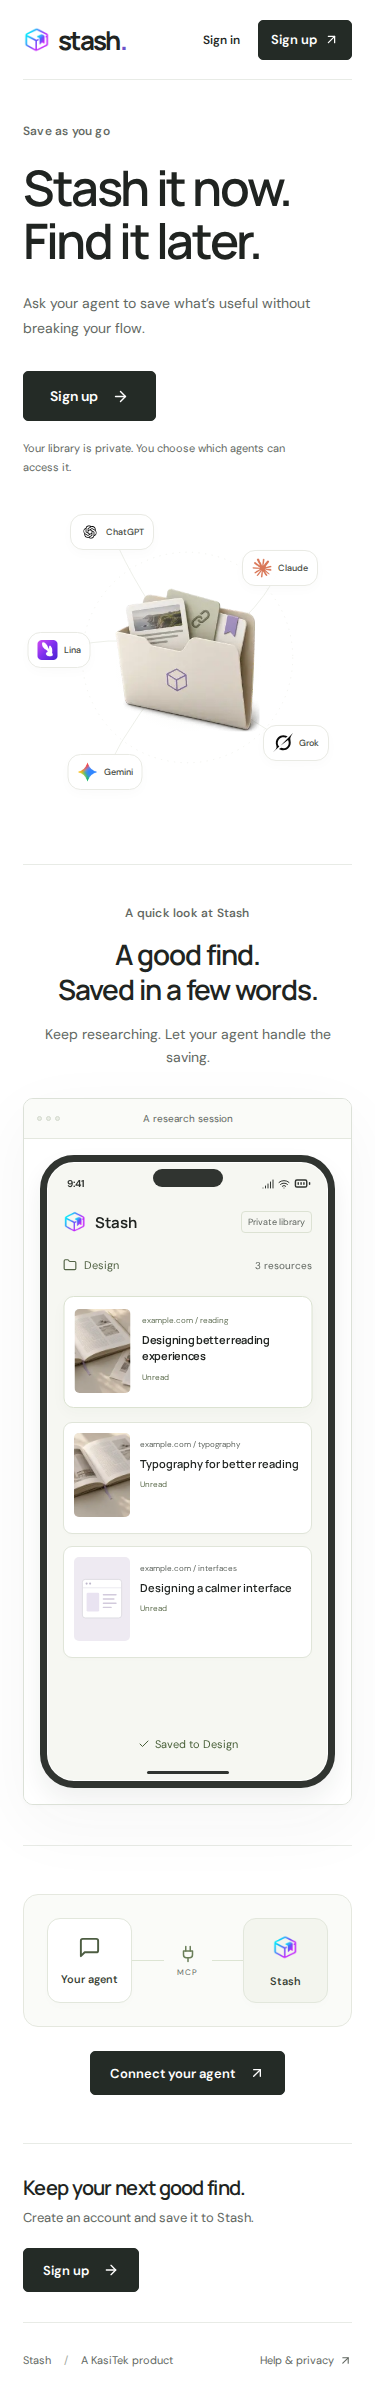
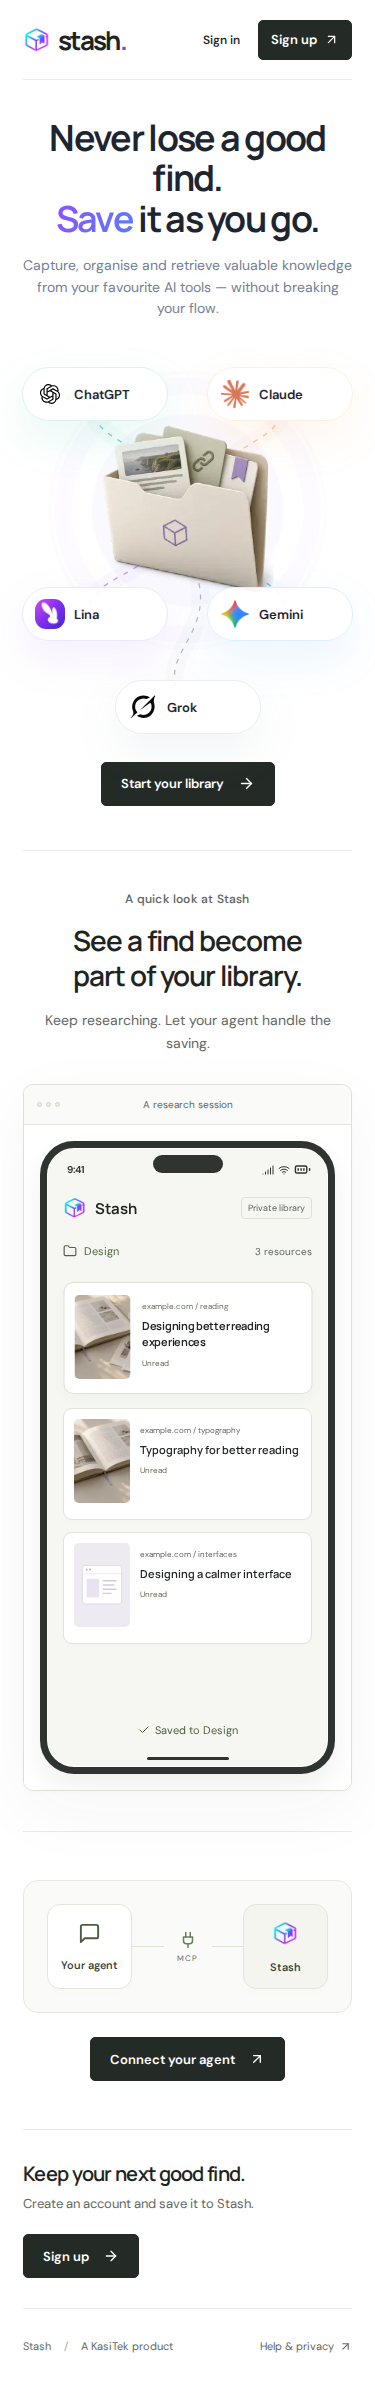
Redesign landing hero with animated assistant streams

diff --git a/apps/web/app/globals.css b/apps/web/app/globals.css
@@ -1879,71 +1879,6 @@ textarea::placeholder {
  .demo-saved-note { bottom: 27px; }
 }
 
-/* Useful things arrive from the conversation, one at a time. */
-.hero-stream { aspect-ratio: 1; max-width: 540px; position: relative; isolation: isolate; }
-.hero-stream-scene { position: absolute; inset: 0; }
-.hero-stream-paths { position: absolute; inset: 0; width: 100%; height: 100%; }
-.hero-agent { position: absolute; transform: translate(-50%, -50%); display: flex; gap: 7px; align-items: center; padding: 9px 12px 9px 9px; border: 1px solid #e9eae4; border-radius: 12px; background: #ffffffed; box-shadow: 0 4px 12px #26302805; color: #454a42; white-space: nowrap; font-size: 11px; font-weight: 500; z-index: 4; }
-.hero-agent-symbol { width: 24px; height: 24px; display: grid; place-items: center; border-radius: 7px; background: #f3f4ef; color: #536149; font-size: 18px; line-height: 1; }
-.hero-stream-item { position: absolute; left: var(--source-x); top: var(--source-y); display: flex; align-items: center; gap: 7px; padding: 9px 11px; border: 1px solid #dce2d4; border-radius: 8px; background: #fcfdf9; color: #627354; font-size: 9px; white-space: nowrap; box-shadow: 0 5px 14px #26302808; z-index: 2; opacity: 0; animation: hero-stash-arrival 16.8s infinite cubic-bezier(.42,0,.2,1); }
-.hero-folder-glow { position: absolute; left: 50%; top: 54%; width: 45%; height: 38%; transform: translate(-50%, -50%); background: radial-gradient(ellipse, #eef0e8b3, transparent 70%); z-index: 1; }
-.hero-center-folder { position: absolute; width: 54%; left: 50%; top: 52%; transform: translate(-50%, -50%); z-index: 3; animation: hero-folder-receive 2.8s infinite ease-in-out; }
-.hero-art .hero-center-folder img { width: 100%; max-width: none; height: auto; }
-@keyframes hero-folder-receive {
-  0%, 68%, 100% { transform: translate(-50%, -50%); }
-  78% { transform: translate(-50%, -51%) rotate(-.6deg); }
-  90% { transform: translate(-50%, -50%) rotate(.3deg); }
-}
-@media (max-width: 560px) {
- .hero-stream { max-width: 340px; }
- .hero-agent { font-size: 9px; padding: 6px 8px 6px 6px; gap: 5px; border-radius: 10px; }
- .hero-agent-symbol { width: 21px; height: 21px; }
- .hero-stream-item { font-size: 8px; padding: 7px 8px; }
-}
-@media (prefers-reduced-motion: reduce) {
- .hero-center-folder { animation: none; }
- .hero-stream-item { display: none; }
-}
-.hero-stream { overflow: clip; }
-.hero-stream-item { width: max-content; transform: translate(-50%, -50%) scale(.82); }
-.hero-art .hero-stream-item svg { width: 12px; height: 12px; flex: 0 0 12px; }
-.hero-art .hero-agent-symbol svg { width: 17px; height: 17px; }
-.hero-agent { z-index: 6; }
-.hero-stream-item { z-index: 4; }
-.hero-folder-front { z-index: 5; clip-path: inset(50% 0 0); }
-
-/* Real assistant marks, with legible resource previews on their way in. */
-.hero-center-folder { width: 44%; top: 51%; animation-duration: 4s; }
-.hero-agent { padding: 10px 13px; gap: 8px; border-radius: 13px; }
-.hero-agent-symbol { background: transparent; width: 24px; height: 24px; border-radius: 0; }
-.hero-art .hero-agent-symbol img { width: 24px; height: 24px; max-width: none; object-fit: contain; }
-.hero-stream-item { padding: 8px; width: 154px; gap: 9px; border-radius: 10px; background: #fff; border-color: #e3e7dc; box-shadow: 0 8px 20px #303c2010; white-space: normal; transform: translate(-50%, -50%) scale(.95); animation: hero-resource-arrival 20s infinite cubic-bezier(.4,0,.2,1); }
-.hero-stream-thumbnail { position: relative; width: 38px; height: 46px; flex: 0 0 38px; display: grid; place-items: center; overflow: hidden; background: #f0ecf6; color: #9b88b0; border-radius: 5px; }
-.hero-art .hero-stream-thumbnail img { width: 100%; height: 100%; object-fit: cover; }
-.hero-art .hero-stream-thumbnail svg { width: 22px; height: 22px; flex: none; }
-.hero-stream-copy { min-width: 0; text-align: left; }
-.hero-stream-copy > span { display: flex; align-items: center; gap: 3px; font-size: 7px; color: #778267; }
-.hero-art .hero-stream-copy svg { width: 9px; height: 9px; flex: 0 0 9px; }
-.hero-stream-copy strong { display: block; font-size: 10px; line-height: 1.35; font-weight: 600; color: #343d2f; margin-top: 4px; }
-.hero-stream-copy small { display: block; font-size: 6px; color: #878c80; margin-top: 4px; }
-@keyframes hero-resource-arrival {
-  0%, 1% { opacity: 0; left: var(--source-x); top: var(--source-y); transform: translate(-50%, -50%) scale(.88); }
-  3% { opacity: 1; }
-  9% { opacity: 1; left: var(--via-x); top: var(--via-y); transform: translate(-50%, -50%) scale(.95) rotate(-3deg); }
-  14% { opacity: 1; left: 50%; top: 43%; transform: translate(-50%, -50%) scale(.8); }
-  18%, 100% { opacity: 0; left: 50%; top: 54%; transform: translate(-50%, -50%) scale(.32); }
-}
-@media (max-width: 560px) {
- .hero-agent { padding: 7px 9px; gap: 6px; }
- .hero-agent-symbol, .hero-art .hero-agent-symbol img { width: 20px; height: 20px; }
- .hero-stream-item { width: 132px; padding: 7px; gap: 7px; }
- .hero-stream-copy strong { font-size: 9px; }
- .hero-stream-thumbnail { width: 30px; height: 41px; flex-basis: 30px; }
-}
-@media (prefers-reduced-motion: reduce) { .hero-stream-item { display: none; animation: none; } }
-.hero-stream-copy > span { color: #59634f; }
-.hero-stream-copy small { color: #626862; }
-
 /* A direct invitation to connect the library to an agent. */
 .site-connect { max-width: 1160px; margin: 0 auto; padding: 48px 0; border-top: 1px solid #e8ebe6; display: flex; flex-direction: column; gap: 24px; align-items: center; }
 .site-connect-setup { width: min(100%, 535px); padding: 40px 30px; border: 1px solid #e5e8df; border-radius: 15px; background: #fafbf8; }
@@ -2010,3 +1945,67 @@ textarea::placeholder {
 .oauth-verification { padding: 18px 0; }
 .oauth-verification p { font-size: 13px; line-height: 1.7; }
 .oauth-verification button { margin-top: 10px; margin-right: 18px; font-size: 12px; }
+
+/* Finds flow into one library. */
+.site-hero.hero-network { display: flex; flex-direction: column; gap: 0; padding: 52px 0 66px; text-align: center; }
+.hero-network .hero-copy { position: relative; z-index: 2; }
+.hero-network .hero-copy h1 { margin: 0; font-size: clamp(38px, 4.8vw, 64px); line-height: 1.12; letter-spacing: -3px; font-weight: 650; color: #1d2530; }
+.hero-network h1 span { background: linear-gradient(110deg, #8e51ff, #567dff); background-clip: text; -webkit-text-fill-color: transparent; }
+.hero-network .hero-description { max-width: 520px; margin: 18px auto 0; color: #738094; font-size: 16px; line-height: 1.55; }
+.hero-network-art { width: 100%; aspect-ratio: 2.2; position: relative; isolation: isolate; margin-top: -26px; }
+.network-streams { position: absolute; inset: 0; width: 100%; height: 100%; overflow: visible; }
+.network-mobile { display: none; }
+.network-halo { position: absolute; width: 36%; aspect-ratio: 1; left: 50%; top: 48%; transform: translate(-50%, -50%); border-radius: 50%; background: radial-gradient(circle, #9065f90a 48%, transparent 49%, transparent 58%, #9065f907 59%, #9065f907 67%, transparent 68%, #9065f905 69%); }
+.network-agent { position: absolute; display: flex; align-items: center; gap: 15px; width: 242px; padding: 15px 20px; border-radius: 50px; border: 1px solid color-mix(in srgb, var(--stream-color) 16%, white); background: #ffffffeb; box-shadow: 0 18px 45px color-mix(in srgb, var(--stream-color) 10%, transparent); text-align: left; transform: translate(-50%, -50%); z-index: 3; }
+.network-agent strong { font-size: 15px; font-weight: 600; color: #1d2530; display: block; }
+.network-agent small { font-size: 10px; color: #748096; display: block; margin-top: 4px; white-space: nowrap; }
+.network-logo { width: 44px; height: 44px; flex: 0 0 44px; }
+.network-logo img { width: 100%; height: 100%; object-fit: contain; border-radius: 11px; }
+.network-chatgpt { left: 12%; top: 10%; }
+.network-claude { left: 88%; top: 10%; }
+.network-lina { left: 11%; top: 56%; }
+.network-gemini { left: 89%; top: 56%; }
+.network-grok { left: 50%; top: 94%; }
+.network-folder { position: absolute; width: 29%; left: 50%; top: 48%; transform: translate(-50%, -50%); z-index: 2; animation: network-float 6s ease-in-out infinite; }
+.network-folder img { width: 100%; height: auto; display: block; }
+.network-particle { filter: drop-shadow(0 0 5px var(--stream-color)); }
+.network-packet { animation: network-packet-fade 5s linear infinite; filter: drop-shadow(0 6px 8px color-mix(in srgb, var(--stream-color) 17%, transparent)); }
+.network-note { position: absolute; color: #8992a1; font-size: 15px; line-height: 1.5; font-style: italic; letter-spacing: .5px; }
+.network-note-left { left: 13%; top: 77%; transform: rotate(-12deg); }
+.network-note-right { right: 13%; top: 79%; transform: rotate(8deg); }
+.network-note svg { width: 75px; height: 40px; fill: none; stroke: #8992a1; stroke-width: 1; display: block; margin-left: 75px; }
+.network-note-right svg { margin-left: -40px; }
+.network-signup { margin-top: 48px; }
+@keyframes network-float { 0%,100% { transform: translate(-50%, -50%); } 50% { transform: translate(-50%, calc(-50% - 6px)); } }
+@keyframes network-packet-fade { 0%,7%,92%,100% { opacity: 0; } 17%,75% { opacity: 1; } }
+@media (max-width: 1000px) and (min-width: 561px) {
+ .network-agent { width: 200px; padding: 12px 14px; gap: 10px; }
+ .network-agent small { font-size: 8px; }
+ .network-logo { width: 34px; height: 34px; flex-basis: 34px; }
+ .network-note { font-size: 12px; }
+}
+@media (max-width: 560px) {
+ .site-hero.hero-network { padding: 38px 0 44px; }
+ .hero-network .hero-copy h1 { font-size: 36px; letter-spacing: -1.7px; }
+ .hero-network .hero-description { max-width: 330px; font-size: 14px; margin-top: 16px; }
+ .hero-network-art { aspect-ratio: 400 / 470; margin-top: 20px; }
+ .network-desktop { display: none; }
+ .network-mobile { display: block; }
+ .network-agent { width: 146px; padding: 11px 12px; gap: 9px; }
+ .network-agent strong { font-size: 13px; }
+ .network-agent small { display: none; }
+ .network-logo { width: 30px; height: 30px; flex-basis: 30px; }
+ .network-chatgpt { left: 22%; top: 14%; }
+ .network-claude { left: 78%; top: 14%; }
+ .network-lina { left: 22%; top: 71%; }
+ .network-gemini { left: 78%; top: 71%; }
+ .network-grok { top: 95%; }
+ .network-folder { width: 52%; top: 44%; }
+ .network-halo { width: 85%; top: 44%; }
+ .network-note { display: none; }
+ .network-signup { margin-top: 35px; }
+}
+@media (prefers-reduced-motion: reduce) {
+ .network-folder, .network-packet { animation: none; }
+ .network-packet, .network-particle { display: none; }
+}

diff --git a/apps/web/app/product-illustration.tsx b/apps/web/app/product-illustration.tsx
@@ -1,33 +1,47 @@
 "use client";
 import Image from "next/image";
-import { FileText, Link2 } from "lucide-react";
+import { FileText, List, Image as ImageIcon, Code2 } from "lucide-react";
 export { ProductStory } from "./save-demo";
 
 const assistants = [
-  { name: "ChatGPT", logo: "/agents/chatgpt.svg", x: "27%", y: "12%", viaX: "42%", viaY: "22%", delay: "0s", kind: "link", title: "Designing for focus", detail: "Article · Read later" },
-  { name: "Claude", logo: "/agents/claude.png", x: "78%", y: "23%", viaX: "70%", viaY: "39%", delay: "4s", kind: "note", title: "An idea worth keeping", detail: "Note · Project research" },
-  { name: "Grok", logo: "/agents/grok.svg", x: "83%", y: "76%", viaX: "67%", viaY: "66%", delay: "8s", kind: "link", title: "A fresh perspective", detail: "Reference · Research" },
-  { name: "Gemini", logo: "/agents/gemini.png", x: "25%", y: "85%", viaX: "28%", viaY: "63%", delay: "12s", kind: "link", title: "Better reading habits", detail: "Article · Read later" },
-  { name: "Lina", logo: "/agents/lina.png", x: "11%", y: "48%", viaX: "28%", viaY: "35%", delay: "16s", kind: "note", title: "Notes from our chat", detail: "Note · Keep for later" },
+  { name: "ChatGPT", logo: "/agents/chatgpt.svg", detail: "Articles · Ideas · Notes", color: "#12bc91", icon: FileText, path: "M200 50 C200 155 295 70 355 150 S430 180 500 230", mobile: "M80 65 C80 135 155 110 200 210" },
+  { name: "Claude", logo: "/agents/claude.png", detail: "Research · Summaries · Insights", color: "#ff9948", icon: FileText, path: "M900 50 C900 160 800 70 745 150 S670 180 600 230", mobile: "M320 65 C320 135 245 110 200 210" },
+  { name: "Lina", logo: "/agents/lina.png", detail: "Plans · Tasks · Learnings", color: "#9860fc", icon: List, path: "M200 280 C295 320 320 230 385 240 S435 260 500 280", mobile: "M80 335 C80 280 150 300 200 210" },
+  { name: "Gemini", logo: "/agents/gemini.png", detail: "Web · References · Media", color: "#399eff", icon: ImageIcon, path: "M900 280 C805 340 780 245 715 260 S650 260 600 280", mobile: "M320 335 C320 280 250 300 200 210" },
+  { name: "Grok", logo: "/agents/grok.svg", detail: "Trends · Discussions · Ideas", color: "#84909e", icon: Code2, path: "M550 470 C450 410 630 395 550 330", mobile: "M200 445 C145 380 255 360 200 260" },
 ];
 
+function Streams({ mobile = false }: { mobile?: boolean }) {
+  return <svg className={`network-streams ${mobile ? "network-mobile" : "network-desktop"}`} viewBox={mobile ? "0 0 400 470" : "0 0 1100 500"} fill="none" aria-hidden="true">
+    {assistants.map((agent, index) => {
+      const path = mobile ? agent.mobile : agent.path;
+      const Icon = agent.icon;
+      return <g key={agent.name} style={{ "--stream-color": agent.color } as React.CSSProperties}>
+        <path d={path} stroke={agent.color} strokeWidth={mobile ? 22 : 30} opacity=".035" />
+        <path d={path} stroke={agent.color} strokeWidth="1.5" strokeDasharray="6 8" opacity=".6" />
+        {[0, 1].map(particle => <circle key={particle} className="network-particle" r={particle ? 3 : 5} fill={agent.color}>
+          <animateMotion dur="5s" begin={`${-index - particle * 2.5}s`} repeatCount="indefinite" path={path} />
+        </circle>)}
+        <g className="network-packet" style={{ animationDelay: `${-index}s` }}>
+          <animateMotion dur="5s" begin={`${-index}s`} repeatCount="indefinite" path={path} />
+          <rect x="-19" y="-21" width="38" height="42" rx="12" fill="white" stroke={agent.color} strokeOpacity=".16" />
+          <Icon x={-10} y={-11} width={20} height={22} stroke={agent.color} strokeWidth={1.6} />
+        </g>
+      </g>;
+    })}
+  </svg>;
+}
+
 export function HeroIllustration() {
-  return (
-    <div className="hero-art hero-stream" role="img" aria-label="Links, ideas, and research notes from different agents collecting in your Stash folder">
-      <div className="hero-stream-scene" aria-hidden="true">
-        <svg className="hero-stream-paths" viewBox="0 0 500 500" fill="none">
-          <circle cx="250" cy="250" r="160" stroke="#ebece6" strokeDasharray="2 8" />
-          <path d="M135 60 Q170 145 250 250 M390 115 Q350 200 250 250 M415 380 Q330 350 250 250 M125 425 Q170 330 250 250 M55 240 Q155 205 250 250" stroke="#e4e7dd" strokeWidth="1" />
-        </svg>
-        {assistants.map((agent) => <div key={agent.name} className="hero-agent" style={{ left: agent.x, top: agent.y }}>{agent.logo && <span className="hero-agent-symbol"><img src={agent.logo} width={24} height={24} alt="" /></span>}<span>{agent.name}</span></div>)}
-        {assistants.map((agent) => <div key={agent.name} className={`hero-stream-item hero-stream-${agent.kind}`} style={{ "--source-x": agent.x, "--source-y": agent.y, "--via-x": agent.viaX, "--via-y": agent.viaY, animationDelay: agent.delay } as React.CSSProperties}>
-          <div className="hero-stream-thumbnail">{agent.kind === "link" ? <img src="/reading-preview.webp" width={38} height={46} alt="" /> : <FileText size={22} />}</div>
-          <div className="hero-stream-copy"><span>{agent.kind === "link" ? <Link2 size={9} /> : <FileText size={9} />}{agent.kind === "link" ? "Saved link" : "Saved note"}</span><strong>{agent.title}</strong><small>{agent.detail}</small></div>
-        </div>)}
-        <div className="hero-folder-glow" />
-        <div className="hero-center-folder"><Image src="/stash-hero.webp" width={1000} height={985} alt="" sizes="(max-width: 560px) 150px, 225px" preload /></div>
-        <div className="hero-center-folder hero-folder-front"><Image src="/stash-hero.webp" width={1000} height={985} alt="" sizes="(max-width: 560px) 150px, 225px" /></div>
-      </div>
-    </div>
-  );
+  return <div className="hero-network-art" role="img" aria-label="Articles, ideas and notes from your AI assistants flowing into your Stash library">
+    <div className="network-halo" aria-hidden="true" />
+    <Streams /><Streams mobile />
+    {assistants.map(agent => <div key={agent.name} className={`network-agent network-${agent.name.toLowerCase()}`} style={{ "--stream-color": agent.color } as React.CSSProperties} aria-hidden="true">
+      <span className="network-logo"><img src={agent.logo} width={44} height={44} alt="" /></span>
+      <span><strong>{agent.name}</strong><small>{agent.detail}</small></span>
+    </div>)}
+    <div className="network-folder"><Image src="/stash-hero.webp" width={1000} height={985} alt="" sizes="(max-width: 560px) 210px, 320px" preload /></div>
+    <div className="network-note network-note-left" aria-hidden="true">From conversation<br />to your library<svg viewBox="0 0 100 50"><path d="M5 15 Q45 65 85 8 M72 12 L85 8 L82 23" /></svg></div>
+    <div className="network-note network-note-right" aria-hidden="true"><svg viewBox="0 0 100 50"><path d="M95 40 Q45 45 20 5 M18 19 L20 5 L32 13" /></svg>Knowledge that<br />stays with you</div>
+  </div>;
 }

diff --git a/tests/browser/landing.spec.ts b/tests/browser/landing.spec.ts
@@ -4,9 +4,15 @@ for (const width of [1440, 375]) {
   test(`Landing and dedicated account pages at ${width}px`, async ({ page }) => {
     await page.setViewportSize({ width, height: 1000 });
     await page.goto("/");
-    await expect(page.getByRole("heading", { name: "Stash it now. Find it later." })).toBeVisible();
+    await expect(page.getByRole("heading", { name: "Never lose a good find. Save it as you go.", level: 1 })).toBeVisible();
     await expect(page.getByLabel("Your name")).toHaveCount(0);
-    await page.waitForFunction(() => [...document.querySelectorAll(".hero-stream-item")].some(el => Number(getComputedStyle(el).opacity) > .8));
+    await page.waitForFunction(() => [...document.querySelectorAll(".network-desktop .network-packet, .network-mobile .network-packet")].some(el => Number(getComputedStyle(el).opacity) > .8));
+    const packet = page.locator(width > 560 ? ".network-desktop .network-packet" : ".network-mobile .network-packet").first();
+    const before = await packet.boundingBox();
+    await expect.poll(async () => {
+      const after = await packet.boundingBox();
+      return before && after ? Math.hypot(after.x - before.x, after.y - before.y) : 0;
+    }).toBeGreaterThan(10);
     expect(await page.evaluate(() => document.documentElement.scrollWidth <= innerWidth)).toBe(true);
     await expect(page.getByText(/Codex|OpenCode/)).toHaveCount(0);
     await page.locator(".save-demo").scrollIntoViewIfNeeded();
@@ -16,6 +22,8 @@ for (const width of [1440, 375]) {
     await expect(page.getByText("Saved to Design", { exact: true })).toBeVisible();
     await expect(page.getByText("3 resources", { exact: true })).toBeVisible();
     await page.emulateMedia({ reducedMotion: "reduce" });
+    await expect(packet).toBeHidden();
+    await expect(page.locator(".network-folder")).toHaveCSS("animation-name", "none");
     await expect(page.locator(".demo-play")).toHaveCount(0);
     await expect(page.getByText("Saved to Design", { exact: true })).toBeVisible();
     await expect(page.locator(".demo-player, .demo-chapters, .demo-caption")).toHaveCount(0);
@@ -43,6 +51,6 @@ for (const width of [1440, 375]) {
     await expect(page.getByRole("heading", { name: "Sign in to Stash" })).toBeVisible();
     await page.getByRole("link", { name: "Back to home" }).click();
     await expect(page).toHaveURL(/\/$/);
-    await expect(page.getByRole("heading", { name: "Stash it now. Find it later." })).toBeVisible();
+    await expect(page.getByRole("heading", { name: "Never lose a good find. Save it as you go.", level: 1 })).toBeVisible();
   });
 }

diff --git a/apps/web/app/landing.tsx b/apps/web/app/landing.tsx
@@ -14,15 +14,13 @@ export function Landing() {
         </nav>
       </header>
       <main>
-        <section className="site-hero">
+        <section className="site-hero hero-network">
           <div className="hero-copy">
-            <p className="site-kicker">Save as you go</p>
-            <h1>Stash it now.<br />Find it later.</h1>
-            <p className="hero-description">Ask your agent to save what’s useful without breaking your flow.</p>
-            <Link className="site-button hero-button" href="/signup">Sign up <ArrowRight size={17} /></Link>
-            <p className="hero-footnote">Your library is private. You choose which agents can access it.</p>
+            <h1>Never lose a good find.<br /><span>Save</span> it as you go.</h1>
+            <p className="hero-description">Capture, organise and retrieve valuable knowledge from your favourite AI tools — without breaking your flow.</p>
           </div>
           <HeroIllustration />
+          <Link className="site-button network-signup" href="/signup">Start your library <ArrowRight size={17} /></Link>
         </section>
         <ProductStory />
         <section className="site-connect" id="connect" aria-label="Connect your agent">

diff --git a/apps/web/app/save-demo.tsx b/apps/web/app/save-demo.tsx
@@ -72,7 +72,7 @@ export function ProductStory() {
     <section className="product-story" id="how-it-works" aria-labelledby="product-story-title">
       <div className="product-story-heading">
         <p className="site-kicker">A quick look at Stash</p>
-        <h2 id="product-story-title">A good find.<br />Saved in a few words.</h2>
+        <h2 id="product-story-title">See a find become<br />part of your library.</h2>
         <p className="demo-intro">Keep researching. Let your agent handle the saving.</p>
       </div>
       <div ref={viewport} className={`save-demo phase-${phase} ${reducedMotion ? "demo-reduced-motion" : ""}`} aria-label="Illustrated example of saving a research link with an agent">

diff --git a/.agents/skills/verify-stash/SKILL.md b/.agents/skills/verify-stash/SKILL.md
@@ -25,7 +25,7 @@ For the managed browser suite, Playwright checks the two readiness URLs before d
 
 `tests/browser/journeys.spec.ts` is the canonical browser recipe. It uses stable accessible selectors such as `Sign up`, `Your name`, `Email address`, `Password`, `Create account`, `Save a resource`, `Link`, `Title`, `Why it matters`, `Search your library`, `Import / export`, and `Open profile`.
 
-Check the centered hero folder and staggered incoming links/notes at desktop and 375px widths, including no horizontal overflow while the animation is running and static artwork with reduced motion. Follow Connect your agent to /signin and verify the sign-in form. The public MCP section has only the connection diagram and action, without a headline. Start at the public landing page, follow Sign up to `/signup`, and use `/signin` for returning users. The public page has a 13-second illustrated agent-save demo without a visible playback bar, chapter tabs, or caption. Check automatic start and looping, offscreen pause/resume, manual pause persistence, actual typing, a pause control revealed on hover or keyboard focus, example confirmation, card movement, and reduced motion with tests/browser/demo.spec.ts. Drive the actual user path: create an account, save a resource, follow the locally captured verification email, edit collections and reading status, search, import/export, manage an agent key, update the profile, sign out/in, and delete the account with reauthentication. The recovery test requests and follows a real captured email, then rejects a reused link. Mobile tests drive saving and keyboard dialogs at 375 and 768 pixels; the desktop test uses 1440 pixels.
+Check the reference-style centered hero folder, surrounding assistant cards, and content tiles travelling along curved routes at desktop and 375px widths, including no horizontal overflow while the animation is running and static artwork with reduced motion. Follow Connect your agent to /signin and verify the sign-in form. The public MCP section has only the connection diagram and action, without a headline. Start at the public landing page, follow Sign up to `/signup`, and use `/signin` for returning users. The public page has a 13-second illustrated agent-save demo without a visible playback bar, chapter tabs, or caption. Check automatic start and looping, offscreen pause/resume, manual pause persistence, actual typing, a pause control revealed on hover or keyboard focus, example confirmation, card movement, and reduced motion with tests/browser/demo.spec.ts. Drive the actual user path: create an account, save a resource, follow the locally captured verification email, edit collections and reading status, search, import/export, manage an agent key, update the profile, sign out/in, and delete the account with reauthentication. The recovery test requests and follows a real captured email, then rejects a reused link. Mobile tests drive saving and keyboard dialogs at 375 and 768 pixels; the desktop test uses 1440 pixels.
 
 Check the compact Getting started disclosure opens and closes, resource cards omit metadata-processing labels, and profile Bio editing still persists. `tests/browser/accessibility.spec.ts` checks signup, library, save dialog, and profile using axe. Keyboard focus, Escape, dialog focus return, and layout overflow have dedicated browser assertions.
 

diff --git a/docs/verification.md b/docs/verification.md
@@ -208,3 +208,13 @@ The initial hosted OAuth deployment passed discovery, DCR, signup/verification/c
 ## Final hosted OAuth acceptance
 
 Railway final backend deployment 07835852-8401-486f-bff0-1dc9b87897ac is SUCCESS. A Git-triggered Vercel production build for commit 057aa8a is READY, and the custom domain aliases that build. The hosted OAuth verification was repeated after the final transaction-lock refinement and passed all eight checks in [the report](evidence/oauth-hosted.json), including both credential types, refresh and revocation. Its disposable account was deleted. Local API was migrated and restarted with the same code. Native ChatGPT UI acceptance is not substituted by this SDK/browser result.
+
+### Reference hero — 13 October 2026
+
+Local reference-inspired centered hero verified at 1440px and 375px. The browser checks confirm content tiles actually change position along their routes, no horizontal overflow during playback, reduced motion hides moving tiles and stops the folder animation, and signup/sign-in navigation works. The existing save demo and accessibility checks also passed: `pnpm test:browser tests/browser/landing.spec.ts tests/browser/accessibility.spec.ts tests/browser/demo.spec.ts` — 5 passed. Evidence: `docs/evidence/hero-browser-tests.txt`, `docs/evidence/browser/landing-1440.png`, `docs/evidence/browser/landing-375.png`. Desktop and mobile animated states were also inspected directly on the local review server.
+
+`NEXT_DIST_DIR=.next-build-verification pnpm build`, `pnpm typecheck`, and `git diff --check` passed. An initial harness attempt could not connect to the stopped project-owned PostgreSQL cluster; after starting that cluster, the isolated schema checks ran normally. The first UI run caught the duplicated hero/demo heading selector; the walkthrough now uses a distinct heading and the hero selector targets level 1. The review frontend and API are running locally on 3000/4000. This design revision has not been committed or deployed.
+
+### Hero tagline — 13 October 2026
+
+Changed the hero headline to the user's selected “Never lose a good find. Save it as you go.”, keeping Save highlighted. Desktop/mobile landing browser checks passed, 2/2, including navigation, animation, reduced motion and overflow. `NEXT_DIST_DIR=.next-build-verification pnpm build`, `pnpm typecheck`, and `git diff --check` passed. Evidence: `docs/evidence/tagline-browser-tests.txt` and updated landing screenshots. Local only.

diff --git a/docs/features/landing.md b/docs/features/landing.md
@@ -2,7 +2,7 @@
 
 The redesign is local for review. Anonymous visitors see a public homepage at `/`. Sign up links lead to `/signup`; Sign in leads to `/signin`. Authenticated visitors still open their library at `/`. Verification/reset query links remain compatible.
 
-The hero uses the optimized transparent illustration at `apps/web/public/stash-hero.webp`. Public pages use locally hosted DM Sans and Manrope with included OFL licenses. Copy describes saving during chat/research and retrieving in a later conversation. The centered hero folder is surrounded by small assistant labels using their real marks, with article previews and note cards arriving in a staggered loop. The folder is 44% of the illustration width. Any agent was removed; Lina uses the original icon supplied by the user. These are illustrative examples, not additional verified client integrations. Reduced motion keeps the folder and labels static.
+The hero uses the optimized transparent illustration at `apps/web/public/stash-hero.webp`. Public pages use locally hosted DM Sans and Manrope with included OFL licenses. Copy describes saving during chat/research and retrieving in a later conversation. The full-width hero follows the supplied reference: the headline “Never lose a good find. Save it as you go.”, a smaller folder, and pill-shaped ChatGPT, Claude, Lina, Gemini and Grok cards. Curved coloured routes carry particles and content tiles into the library; the folder floats gently. Lina uses the original user-provided icon, and the other assistants retain their real marks. These are illustrative examples, not verified client integrations. Mobile rearranges the cards around the folder and omits their small subtitles. Reduced motion keeps the folder, cards and routes static, hiding the moving particles and tiles. The header Sign up and hero Start your library actions lead to /signup. The walkthrough has a separate heading to avoid repeating the hero copy.
 
 The second section now contains a 13-second illustrated agent conversation. The agent presents an example article; a user request types into the composer, is sent, and receives a confirmation preview. The preview contains thumbnail artwork, a title, example source, summary, note, tags, and collection. A simulated confirmation moves the same card into the reading list and updates the saved count/status.
 

diff --git a/docs/landing-design.md b/docs/landing-design.md
@@ -36,3 +36,7 @@ At the user's request, removed the MCP kicker, paragraph, compatibility footnote
 ## Connection diagram and sign-in action
 
 Removed the connection headline at the user's request. The section now centers the unchanged diagram with a Connect your agent button beneath it. The button opens /signin. Setup details remain in /help#agents and the authenticated Agent connections view.
+
+## Reference hero — 13 October 2026
+
+The supplied reference replaces the split hero with a centered headline and five assistant cards surrounding the folder. Existing genuine logos and the optimized folder image are reused. SVG motion follows the same curves as the visible dashed routes, with small content tiles and glowing particles; the folder has a gentle float. Mobile uses a separate route geometry and shorter assistant cards. Reduced motion hides moving tiles/particles and stops the folder animation. Sign-up remains available in the header and below the illustration. The demo heading changes to avoid repeating the new hero headline. This revision remains local for review.
